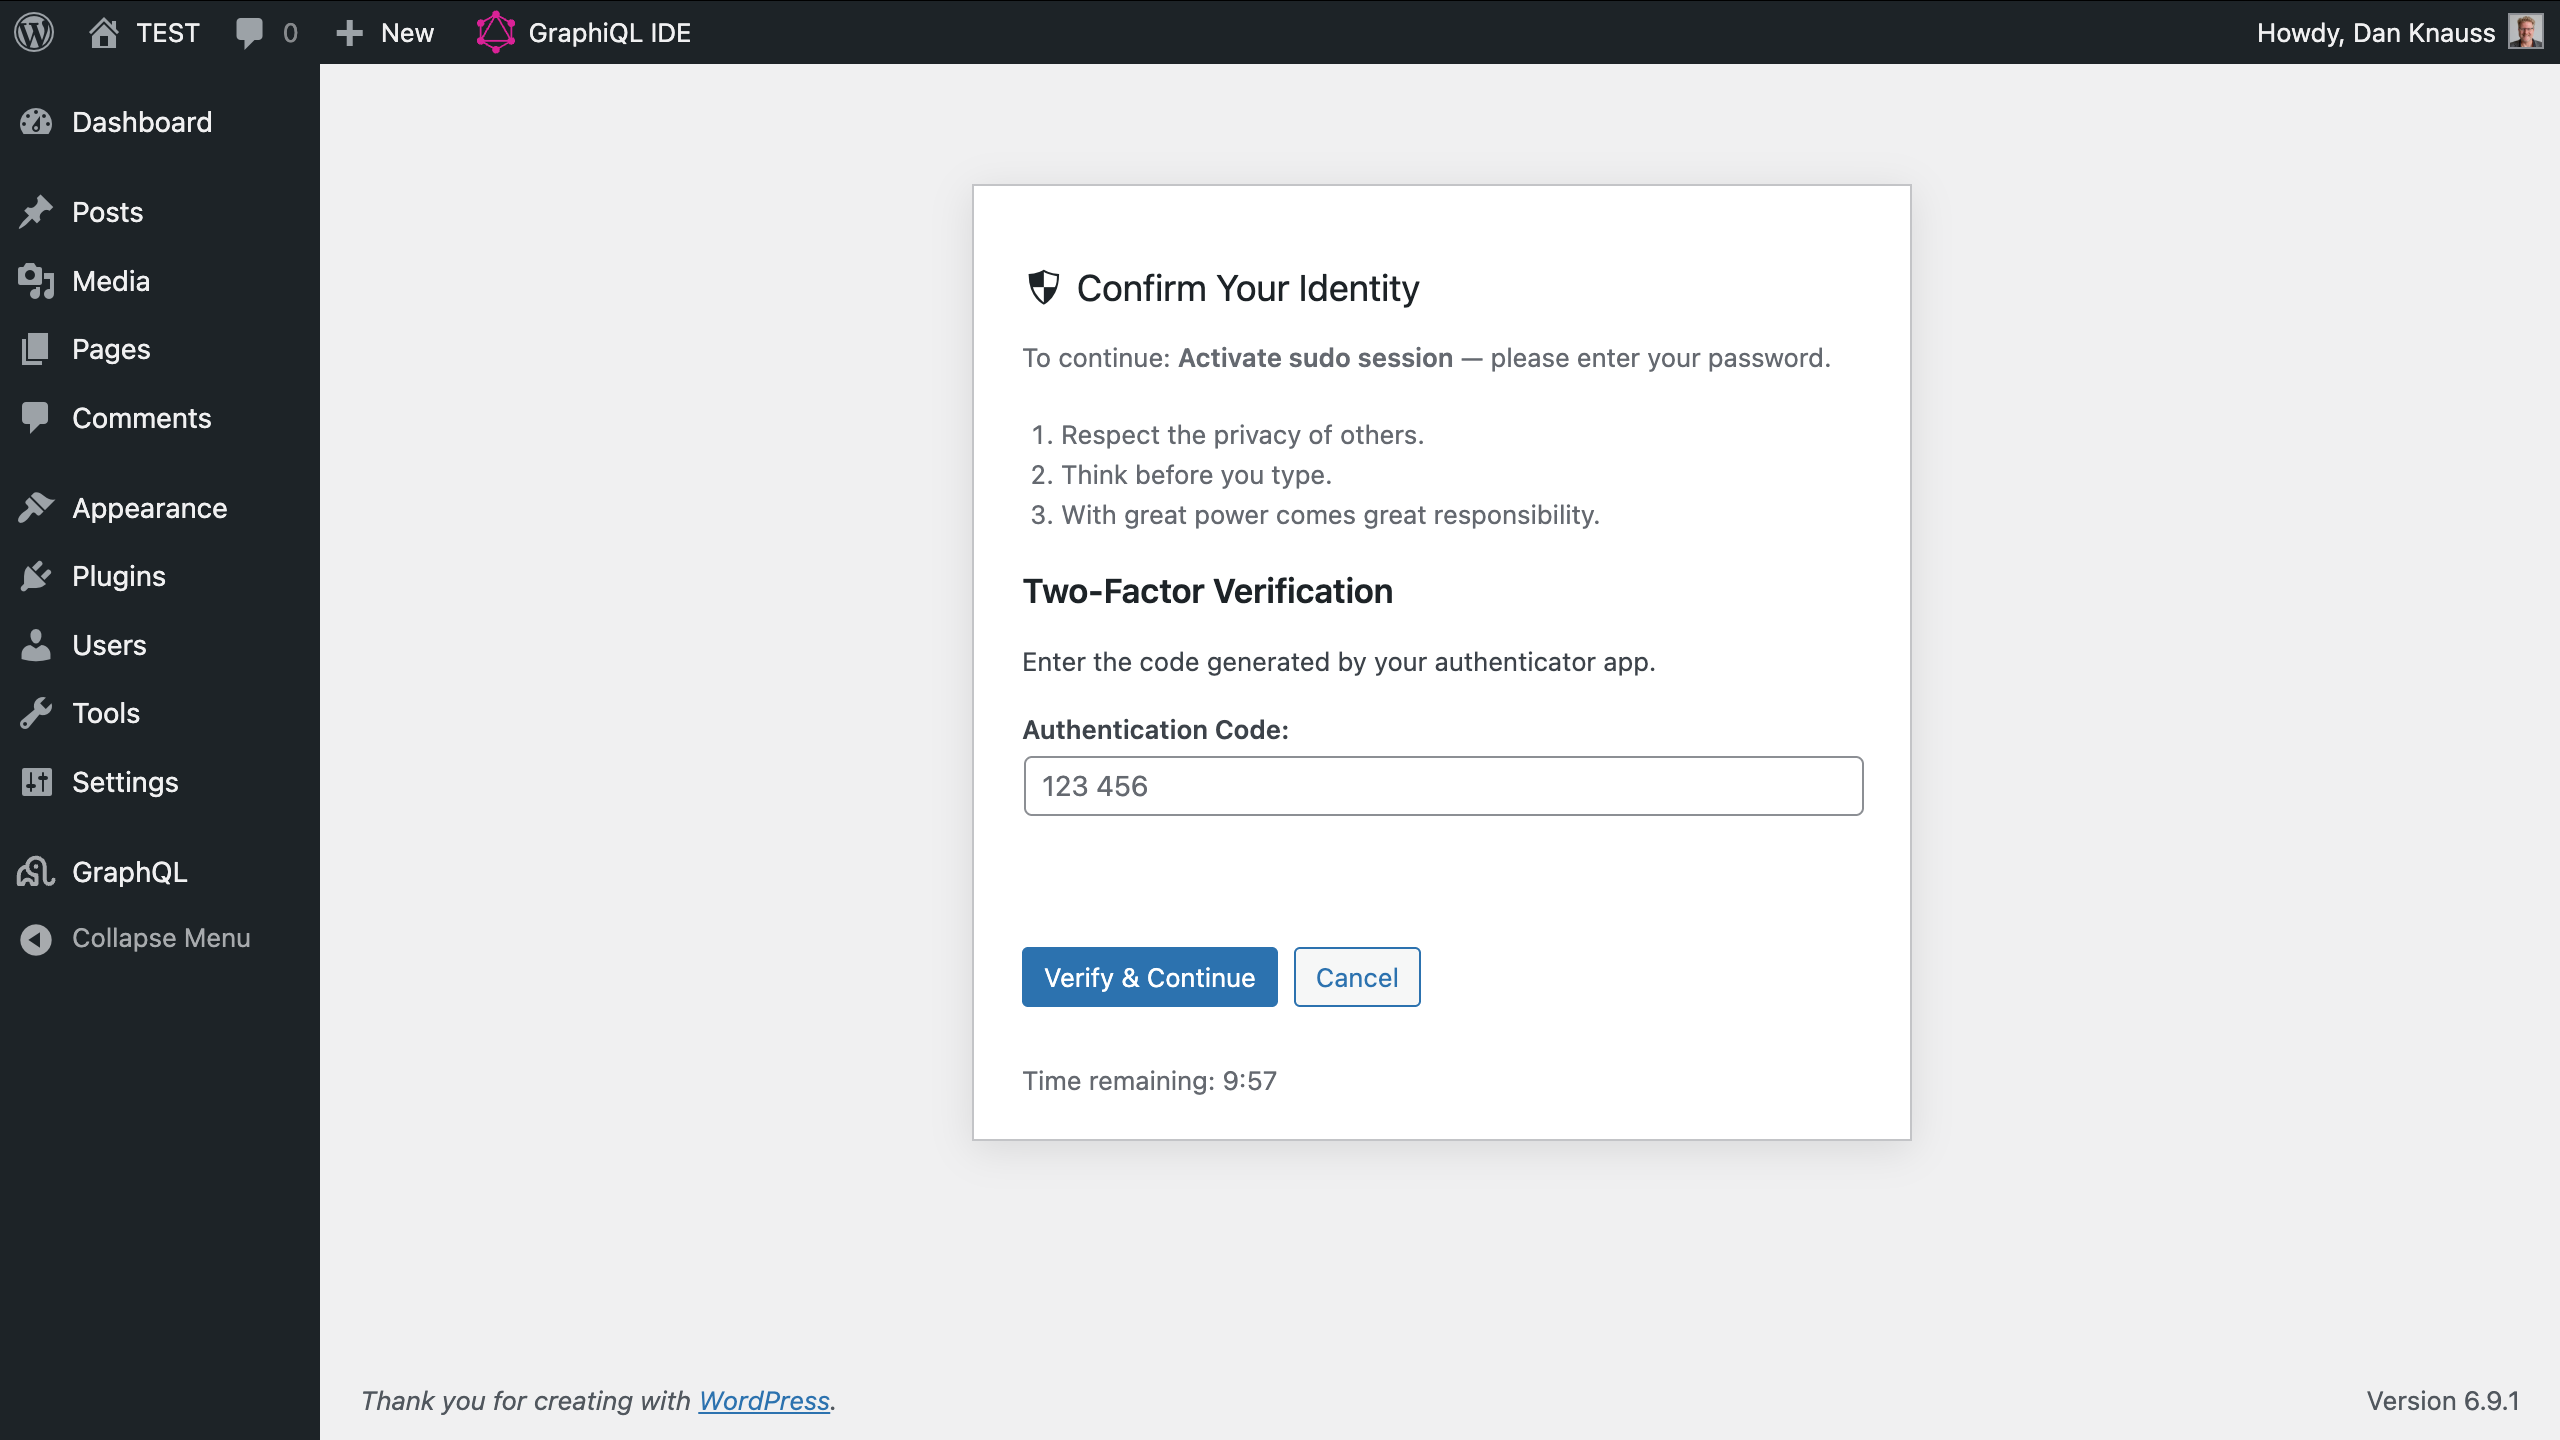
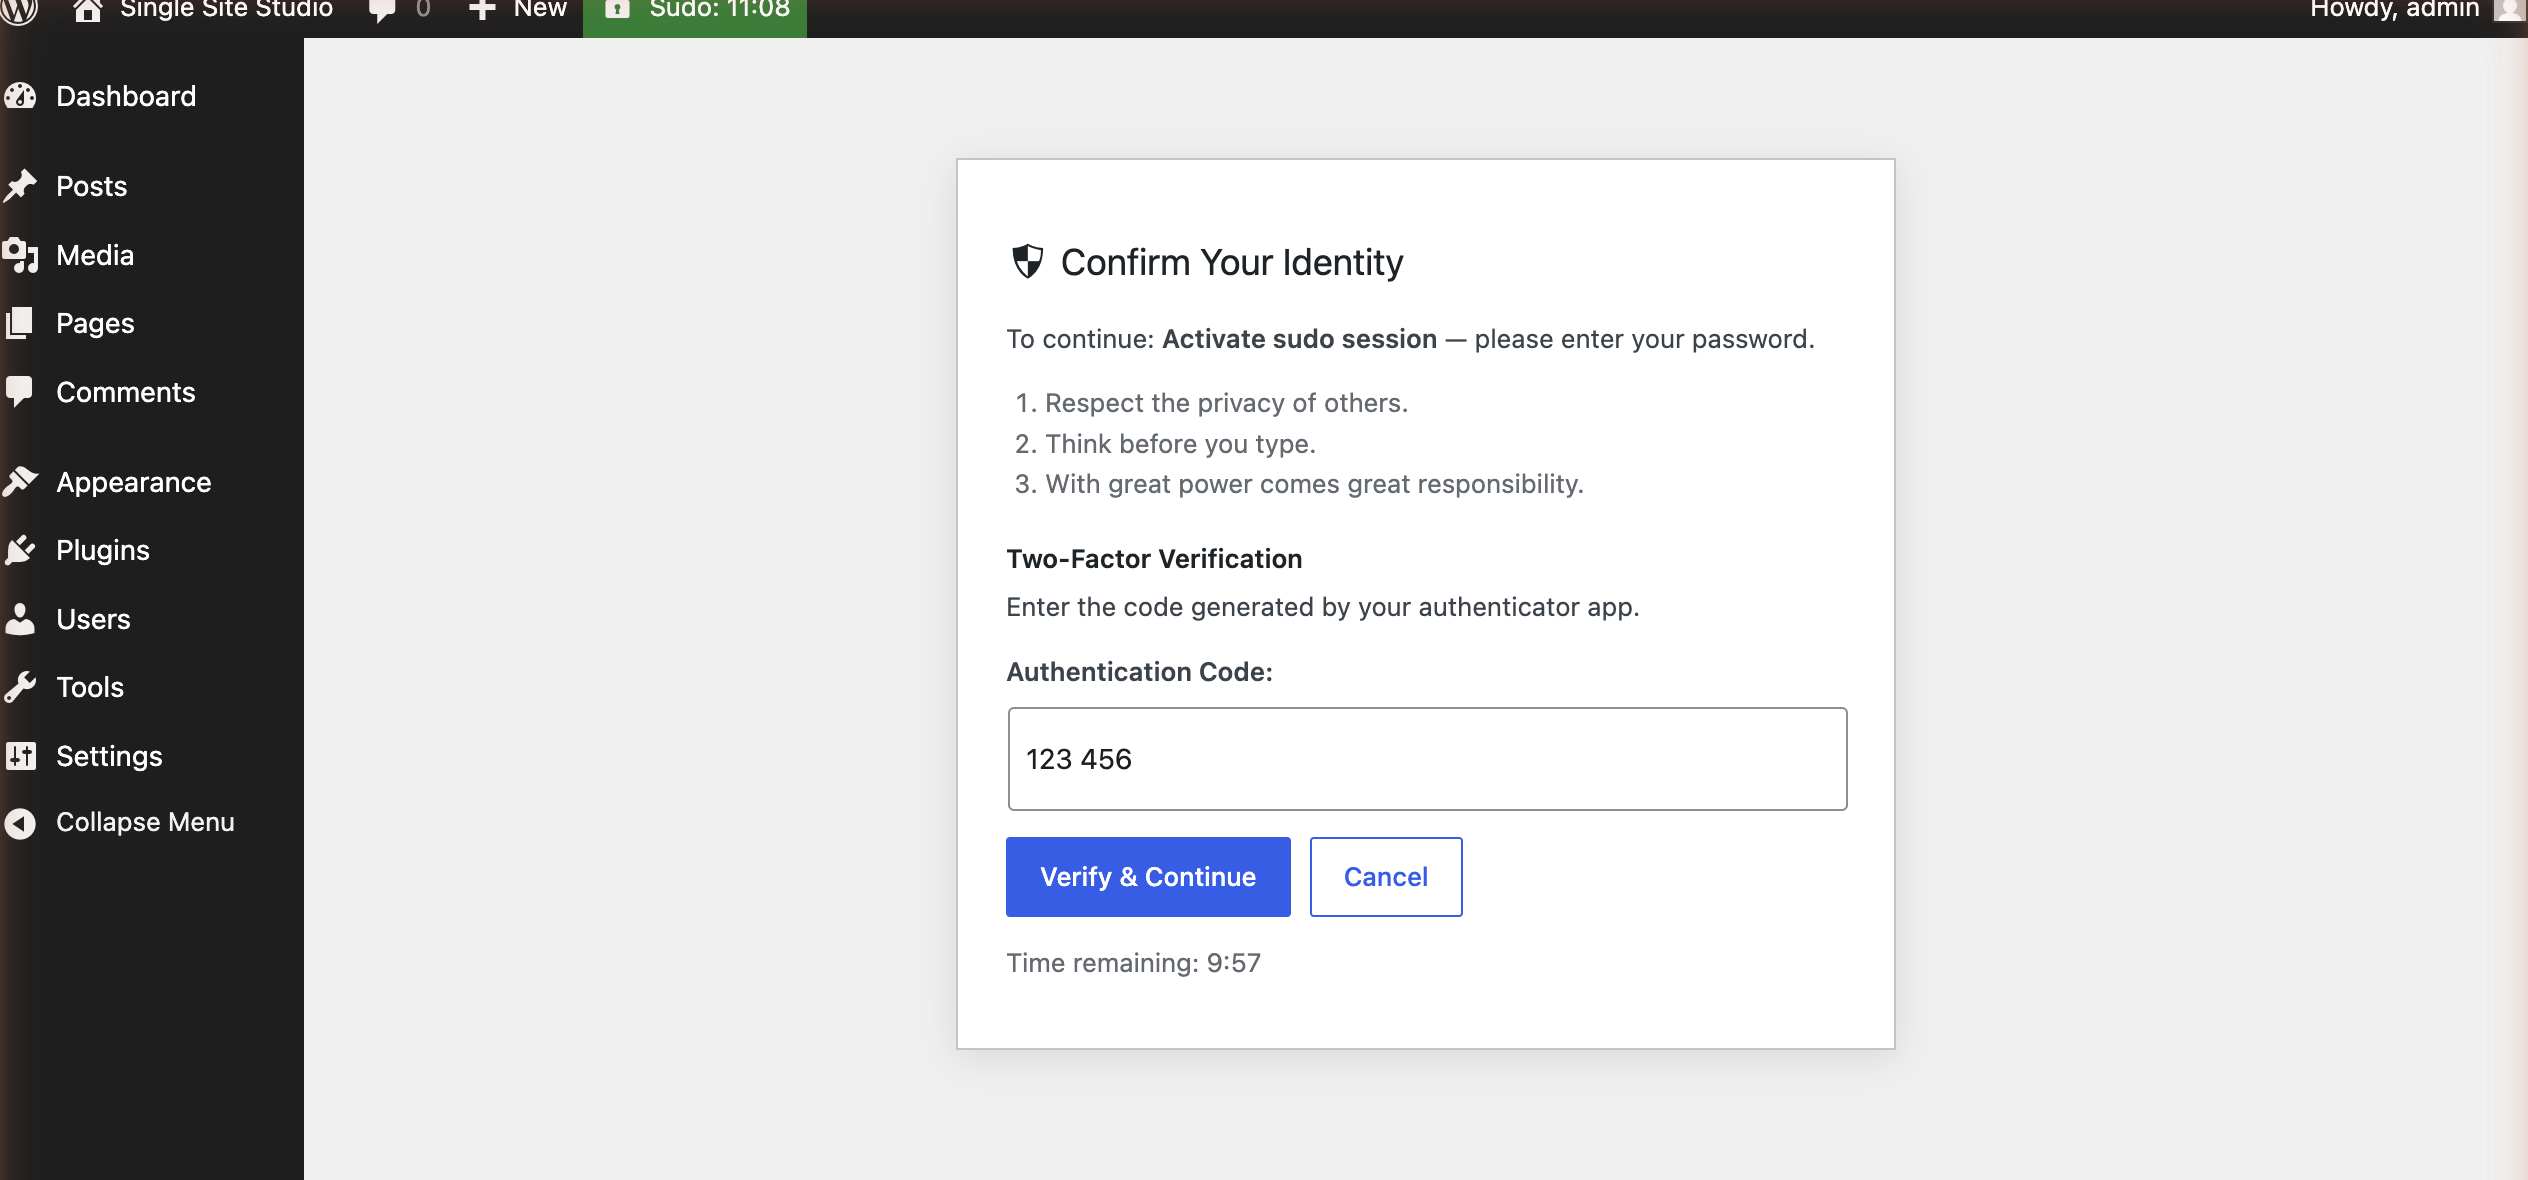
docs: replace screenshot-2 with clean Single Site Studio environment
Previous screenshot showed old TEST site with GraphQL IDE in admin bar
and GraphQL in the sidebar. New capture matches screenshot-1 environment.

diff --git a/readme.md b/readme.md
@@ -121,7 +121,7 @@ Hook signatures, filter reference, custom rule structure, and testing instructio
 
 2. **Two-factor verification** — after password confirmation, users with 2FA enabled enter their authentication code.
 
-   ![Two-factor verification](assets/screenshot-2.png?v=2)
+   ![Two-factor verification](assets/screenshot-2.png?v=3)
 
 3. **Settings page** — configure session duration and entry point policies.
 
